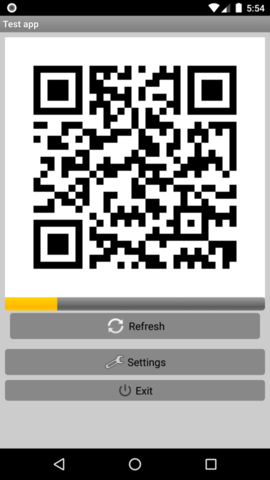
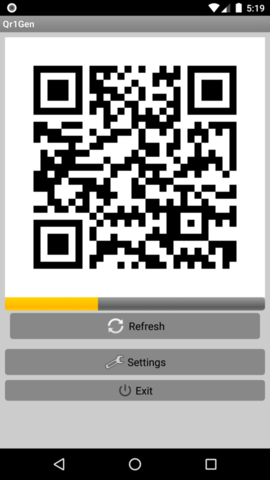
rename app package

diff --git a/src/org/nebuloss/qr1gen/ExportActivity.java b/src/org/nebuloss/qr1gen/ExportActivity.java
@@ -1,4 +1,4 @@
-package org.nebuloss.testapp;
+package org.nebuloss.qr1gen;
 
 import android.app.Activity;
 import android.content.Intent;
@@ -6,21 +6,22 @@ import android.net.Uri;
 import android.os.Bundle;
 import android.widget.Toast;
 
-public class ImportActivity extends Activity {
+public class ExportActivity extends Activity {
 
-    private static final int PICK_FILE_REQUEST_CODE = 2;  // Request code for file picker
+    private static final int PICK_FILE_REQUEST_CODE = 1;  // Request code for file picker
 
     @Override
     protected void onCreate(Bundle savedInstanceState) {
         super.onCreate(savedInstanceState);
-        // Trigger file picker to select the file for import
+        // Trigger file picker
         openFilePicker();
     }
 
     private void openFilePicker() {
         // Create an intent to open a file picker
-        Intent intent = new Intent(Intent.ACTION_OPEN_DOCUMENT);
+        Intent intent = new Intent(Intent.ACTION_CREATE_DOCUMENT);
         intent.setType("text/xml");
+        intent.putExtra(Intent.EXTRA_TITLE, "backup.xml");
         startActivityForResult(intent, PICK_FILE_REQUEST_CODE);
     }
 
@@ -33,11 +34,10 @@ public class ImportActivity extends Activity {
                 Uri uri = data.getData();
                 if (uri != null) {
                     try{
-                        SharedPreferencesHelper.getInstance().importSharedPreferences(uri);
+                        SharedPreferencesHelper.getInstance().exportSharedPreferences(uri);;
                     }catch (Exception e){
-                        Toast.makeText(this, "Failed to import config: " + e.getMessage(), Toast.LENGTH_LONG).show();
+                        Toast.makeText(this, "Failed to export config: " + e.getMessage(), Toast.LENGTH_LONG).show();
                     }
-                    
                 }
             }
         }

diff --git a/src/org/nebuloss/qr1gen/ImportActivity.java b/src/org/nebuloss/qr1gen/ImportActivity.java
@@ -1,4 +1,4 @@
-package org.nebuloss.testapp;
+package org.nebuloss.qr1gen;
 
 import android.app.Activity;
 import android.content.Intent;
@@ -6,22 +6,21 @@ import android.net.Uri;
 import android.os.Bundle;
 import android.widget.Toast;
 
-public class ExportActivity extends Activity {
+public class ImportActivity extends Activity {
 
-    private static final int PICK_FILE_REQUEST_CODE = 1;  // Request code for file picker
+    private static final int PICK_FILE_REQUEST_CODE = 2;  // Request code for file picker
 
     @Override
     protected void onCreate(Bundle savedInstanceState) {
         super.onCreate(savedInstanceState);
-        // Trigger file picker
+        // Trigger file picker to select the file for import
         openFilePicker();
     }
 
     private void openFilePicker() {
         // Create an intent to open a file picker
-        Intent intent = new Intent(Intent.ACTION_CREATE_DOCUMENT);
+        Intent intent = new Intent(Intent.ACTION_OPEN_DOCUMENT);
         intent.setType("text/xml");
-        intent.putExtra(Intent.EXTRA_TITLE, "backup.xml");
         startActivityForResult(intent, PICK_FILE_REQUEST_CODE);
     }
 
@@ -34,10 +33,11 @@ public class ExportActivity extends Activity {
                 Uri uri = data.getData();
                 if (uri != null) {
                     try{
-                        SharedPreferencesHelper.getInstance().exportSharedPreferences(uri);;
+                        SharedPreferencesHelper.getInstance().importSharedPreferences(uri);
                     }catch (Exception e){
-                        Toast.makeText(this, "Failed to export config: " + e.getMessage(), Toast.LENGTH_LONG).show();
+                        Toast.makeText(this, "Failed to import config: " + e.getMessage(), Toast.LENGTH_LONG).show();
                     }
+                    
                 }
             }
         }

diff --git a/src/org/nebuloss/utils/SharedPreferencesEncryption.java b/src/org/nebuloss/utils/SharedPreferencesEncryption.java
@@ -16,14 +16,14 @@ public class SharedPreferencesEncryption{
 
     private static SharedPreferencesEncryption instance=null;
 
-    private byte[] SECRET={83, 104, 97, 105, 50, 65, 113, 117, 101, 105};
-    private String SALT="A99BC8325634E303";
+    private char[] SECRET = {0x53, 0x68, 0x61, 0x69, 0x32, 0x41, 0x71, 0x75, 0x65, 0x69};
+    private byte[] SALT = {(byte) 0xA9, (byte) 0x9B, (byte) 0xC8, (byte) 0x32, (byte) 0x56, (byte) 0x34, (byte) 0xE3, (byte) 0x03};
     
 
     private SharedPreferencesEncryption() throws Exception{
-        secretKey=SecretKeyFactory.getInstance("PBEWithMD5AndDES").generateSecret(new PBEKeySpec(new String(SECRET).toCharArray()));
+        secretKey=SecretKeyFactory.getInstance("PBEWithMD5AndDES").generateSecret(new PBEKeySpec(SECRET));
         cipher = Cipher.getInstance(secretKey.getAlgorithm());
-        algorithmParameterSpec = new PBEParameterSpec(HexUtils.parseHex(SALT), 0x13);
+        algorithmParameterSpec = new PBEParameterSpec(SALT, 0x13);
     }
 
     public static SharedPreferencesEncryption getInstance() throws Exception{

diff --git a/src/org/nebuloss/qr1gen/QrCodeActivity.java b/src/org/nebuloss/qr1gen/QrCodeActivity.java
@@ -1,4 +1,4 @@
-package org.nebuloss.testapp;
+package org.nebuloss.qr1gen;
 
 import org.nebuloss.utils.InvalidFormatException;
 import org.nebuloss.utils.QrCodeGenerator;

diff --git a/src/org/nebuloss/qr1gen/SettingsActivity.java b/src/org/nebuloss/qr1gen/SettingsActivity.java
@@ -1,4 +1,4 @@
-package org.nebuloss.testapp;
+package org.nebuloss.qr1gen;
 
 import org.nebuloss.utils.QrCodeGenerator;
 import org.nebuloss.widgets.CheckboxWithTextView;

diff --git a/src/org/nebuloss/qr1gen/App.java b/src/org/nebuloss/qr1gen/App.java
@@ -1,4 +1,4 @@
-package org.nebuloss.testapp;
+package org.nebuloss.qr1gen;
 
 import android.app.Application;
 import android.content.Context;

diff --git a/src/org/nebuloss/qr1gen/SharedPreferencesHelper.java b/src/org/nebuloss/qr1gen/SharedPreferencesHelper.java
@@ -1,4 +1,4 @@
-package org.nebuloss.testapp;
+package org.nebuloss.qr1gen;
 
 import java.io.File;
 import java.io.FileInputStream;

diff --git a/README.md b/README.md
@@ -31,3 +31,7 @@ The Makefile can generate automatically a basic keystore using these information
 You can compile the app with the command: `make`
 
 Then, install the app on an emulator or directly on your phone: `make install`
+
+# Credits
+
+iconixar on Flaticon for the app icon
